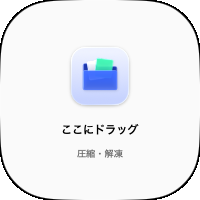
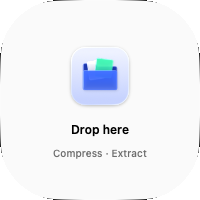
配布ページとREADMEの画面写真を言語ごとに（英語は英語表示、日本語は日本語表示）
Claude-Session: https://claude.ai/code/session_018i94EypDSSPw7vxym6sX9t

diff --git a/scripts/site-shots.py b/scripts/site-shots.py
@@ -1,7 +1,7 @@
 #!/usr/bin/env python3
 """GitHubのMacで撮った画面写真（scripts/ui-shots.sh の shots/）から、配布ページとREADME用の画像を切り出す。
 使い方: python3 scripts/site-shots.py <shotsフォルダ>
-出力: site/public/shots/{en,ja}/{browse,quicklook,drop,compact}.png と docs/images/*.png（英語）"""
+出力: site/public/shots/{en,ja}/*.png と docs/images/*.png（英語）・docs/images/ja/*.png（日本語）"""
 import os, sys
 from PIL import Image, ImageDraw
 
@@ -41,8 +41,11 @@ for lang in ('en', 'ja'):
     # クイックルックは上の帯（qlmanage の確認用の表示）を除く
     cut(f'quicklook-{lang}', None, f'{out}/quicklook.png', 22, top=41)
 
-docs = os.path.join(root, 'docs/images')
-for n in ('browse', 'quicklook', 'drop', 'compact'):
-    p = os.path.join(root, 'site/public/shots/en', n + '.png')
-    if os.path.exists(p):
-        Image.open(p).save(os.path.join(docs, n + '.png'), optimize=True)
+# README 用：英語は docs/images、日本語は docs/images/ja
+for lang, sub in (('en', ''), ('ja', 'ja')):
+    docs = os.path.join(root, 'docs/images', sub)
+    os.makedirs(docs, exist_ok=True)
+    for n in ('browse', 'quicklook', 'drop', 'compact'):
+        p = os.path.join(root, 'site/public/shots', lang, n + '.png')
+        if os.path.exists(p):
+            Image.open(p).save(os.path.join(docs, n + '.png'), optimize=True)
